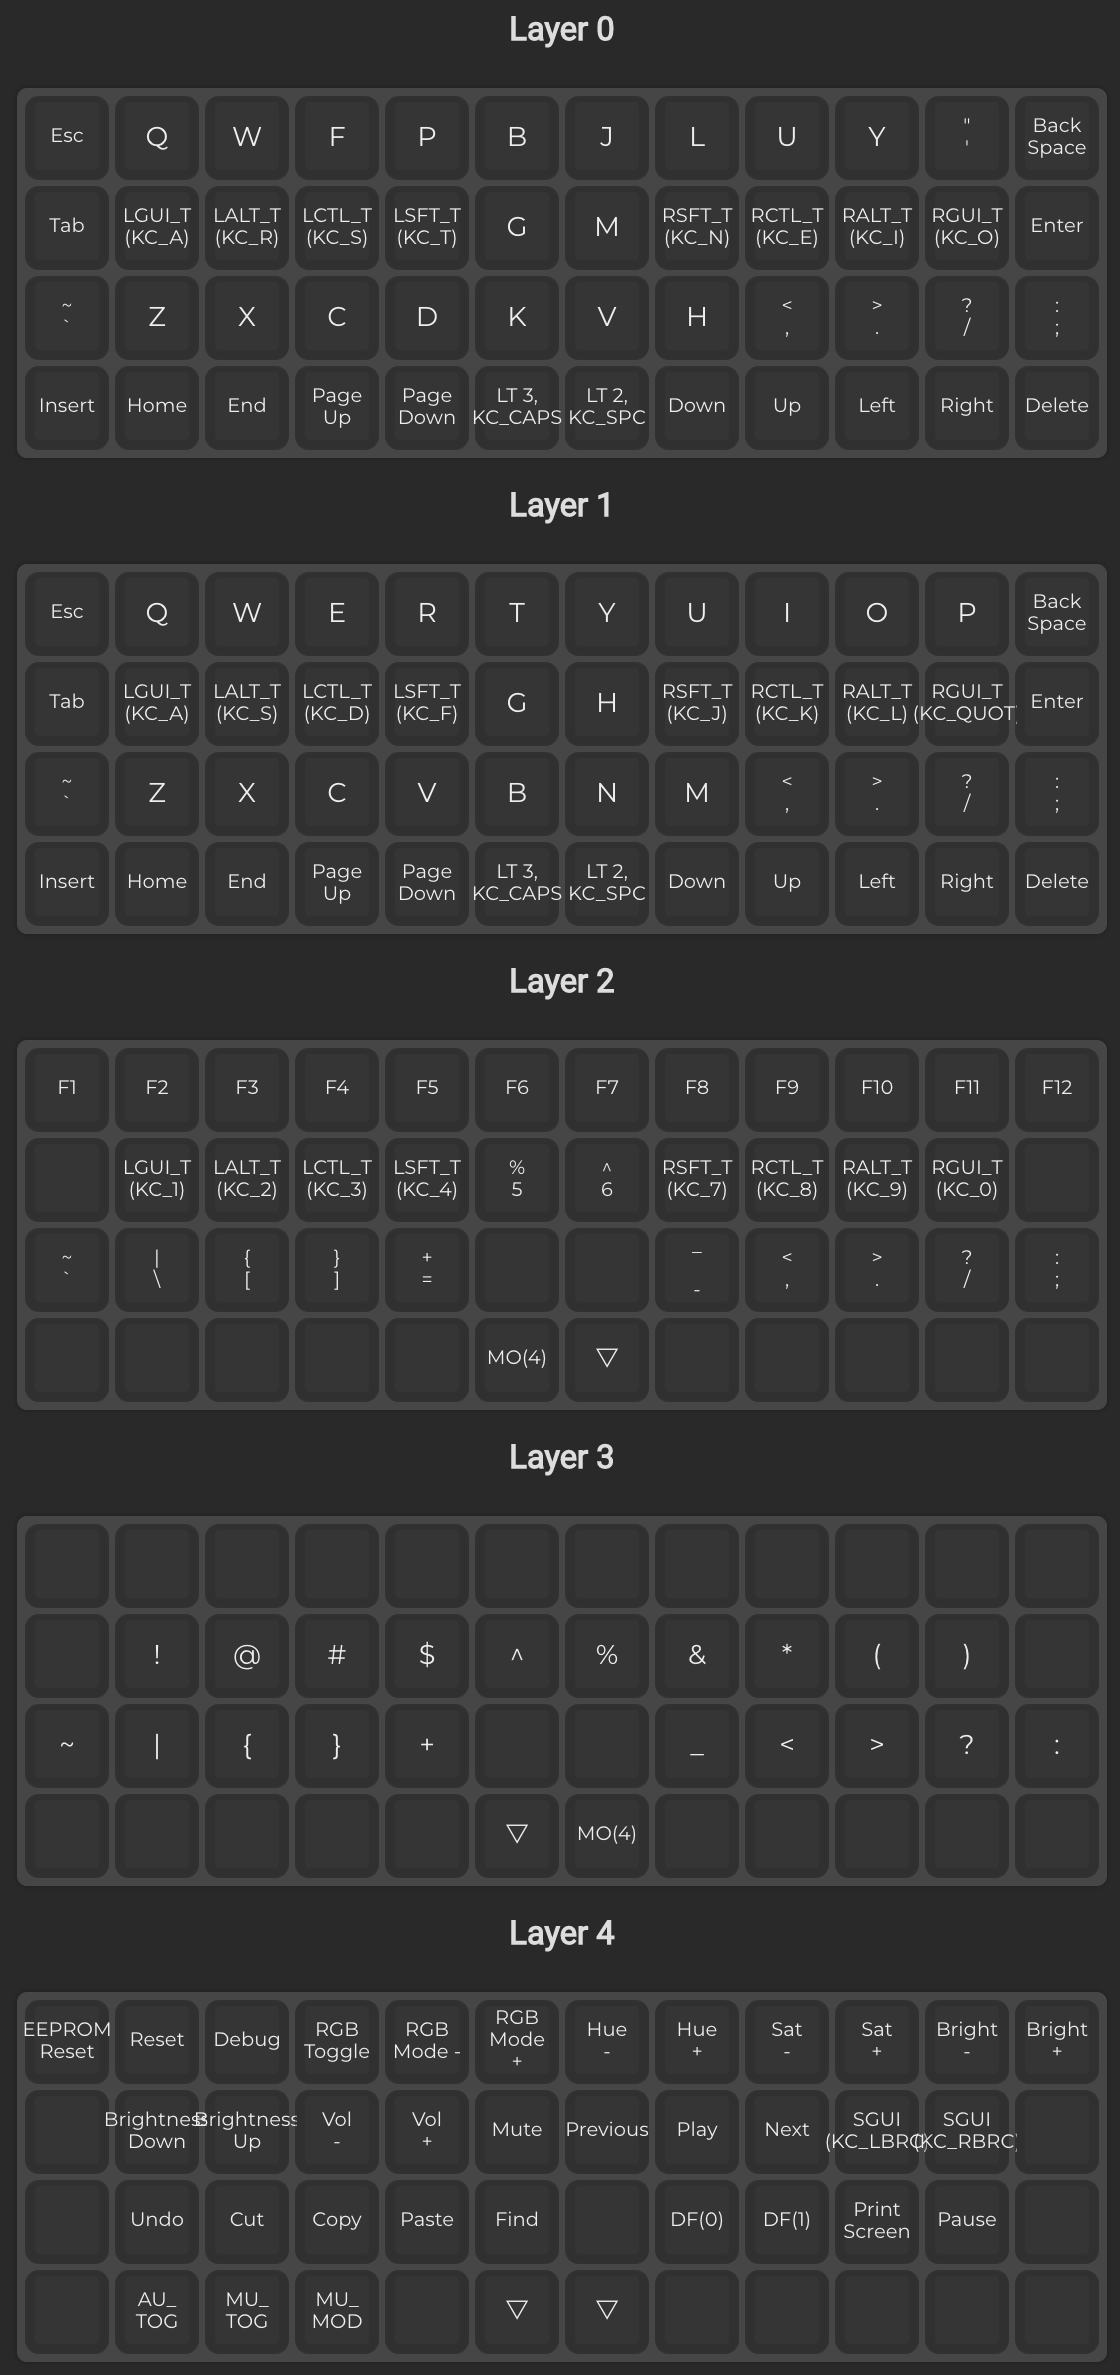
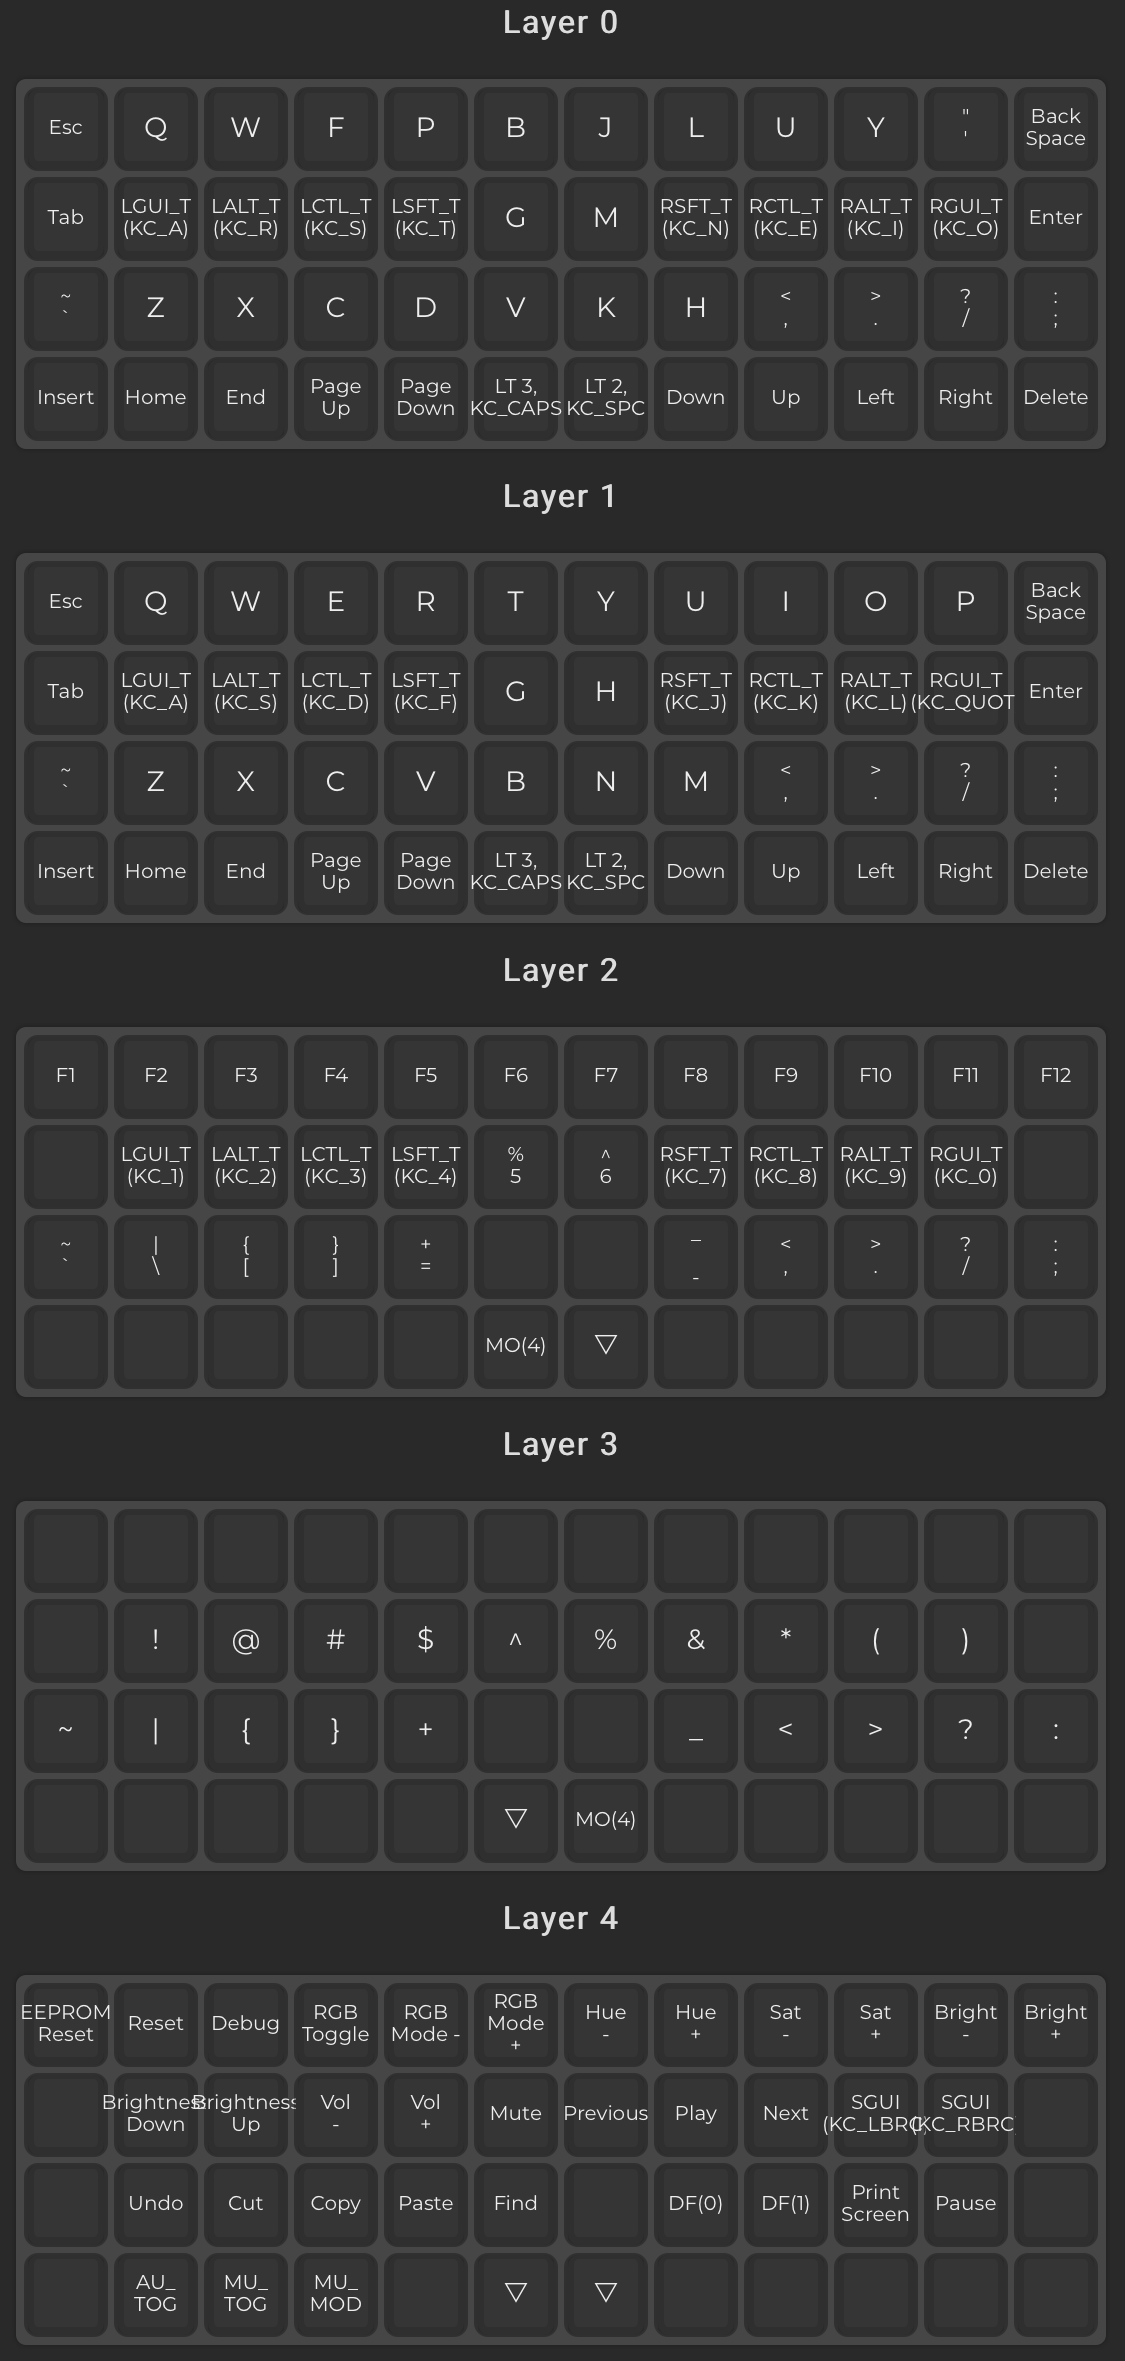
Swap back to plain DH

diff --git a/keymap.c b/keymap.c
@@ -7,7 +7,7 @@
  */
 
 const uint16_t PROGMEM keymaps[][MATRIX_ROWS][MATRIX_COLS] = {
-	[0] = LAYOUT_ortho_4x12(KC_ESC, KC_Q, KC_W, KC_F, KC_P, KC_B, KC_J, KC_L, KC_U, KC_Y, KC_QUOT, KC_BSPC, KC_TAB, LGUI_T(KC_A), LALT_T(KC_R), LCTL_T(KC_S), LSFT_T(KC_T), KC_G, KC_M, RSFT_T(KC_N), RCTL_T(KC_E), RALT_T(KC_I), RGUI_T(KC_O), KC_ENT, KC_GRV, KC_Z, KC_X, KC_C, KC_D, KC_K, KC_V, KC_H, KC_COMM, KC_DOT, KC_SLSH, KC_SCLN, KC_INS, KC_HOME, KC_END, KC_PGUP, KC_PGDN, LT(3,KC_CAPS), LT(2,KC_SPC), KC_DOWN, KC_UP, KC_LEFT, KC_RGHT, KC_DEL),
+	[0] = LAYOUT_ortho_4x12(KC_ESC, KC_Q, KC_W, KC_F, KC_P, KC_B, KC_J, KC_L, KC_U, KC_Y, KC_QUOT, KC_BSPC, KC_TAB, LGUI_T(KC_A), LALT_T(KC_R), LCTL_T(KC_S), LSFT_T(KC_T), KC_G, KC_M, RSFT_T(KC_N), RCTL_T(KC_E), RALT_T(KC_I), RGUI_T(KC_O), KC_ENT, KC_GRV, KC_Z, KC_X, KC_C, KC_D, KC_V, KC_K, KC_H, KC_COMM, KC_DOT, KC_SLSH, KC_SCLN, KC_INS, KC_HOME, KC_END, KC_PGUP, KC_PGDN, LT(3,KC_CAPS), LT(2,KC_SPC), KC_DOWN, KC_UP, KC_LEFT, KC_RGHT, KC_DEL),
 	[1] = LAYOUT_ortho_4x12(KC_ESC, KC_Q, KC_W, KC_E, KC_R, KC_T, KC_Y, KC_U, KC_I, KC_O, KC_P, KC_BSPC, KC_TAB, LGUI_T(KC_A), LALT_T(KC_S), LCTL_T(KC_D), LSFT_T(KC_F), KC_G, KC_H, RSFT_T(KC_J), RCTL_T(KC_K), RALT_T(KC_L), RGUI_T(KC_QUOT), KC_ENT, KC_GRV, KC_Z, KC_X, KC_C, KC_V, KC_B, KC_N, KC_M, KC_COMM, KC_DOT, KC_SLSH, KC_SCLN, KC_INS, KC_HOME, KC_END, KC_PGUP, KC_PGDN, LT(3,KC_CAPS), LT(2,KC_SPC), KC_DOWN, KC_UP, KC_LEFT, KC_RGHT, KC_DEL),
 	[2] = LAYOUT_ortho_4x12(KC_F1, KC_F2, KC_F3, KC_F4, KC_F5, KC_F6, KC_F7, KC_F8, KC_F9, KC_F10, KC_F11, KC_F12, KC_NO, LGUI_T(KC_1), LALT_T(KC_2), LCTL_T(KC_3), LSFT_T(KC_4), KC_5, KC_6, RSFT_T(KC_7), RCTL_T(KC_8), RALT_T(KC_9), RGUI_T(KC_0), KC_NO, KC_GRV, KC_BSLS, KC_LBRC, KC_RBRC, KC_EQL, KC_NO, KC_NO, KC_MINS, KC_COMM, KC_DOT, KC_SLSH, KC_SCLN, KC_NO, KC_NO, KC_NO, KC_NO, KC_NO, MO(4), KC_TRNS, KC_NO, KC_NO, KC_NO, KC_NO, KC_NO),
 	[3] = LAYOUT_ortho_4x12(KC_NO, KC_NO, KC_NO, KC_NO, KC_NO, KC_NO, KC_NO, KC_NO, KC_NO, KC_NO, KC_NO, KC_NO, KC_NO, KC_EXLM, KC_AT, KC_HASH, KC_DLR, KC_CIRC, KC_PERC, KC_AMPR, KC_ASTR, KC_LPRN, KC_RPRN, KC_NO, KC_TILD, KC_PIPE, KC_LCBR, KC_RCBR, KC_PLUS, KC_NO, KC_NO, KC_UNDS, KC_LT, KC_GT, KC_QUES, KC_COLN, KC_NO, KC_NO, KC_NO, KC_NO, KC_NO, KC_TRNS, MO(4), KC_NO, KC_NO, KC_NO, KC_NO, KC_NO),
